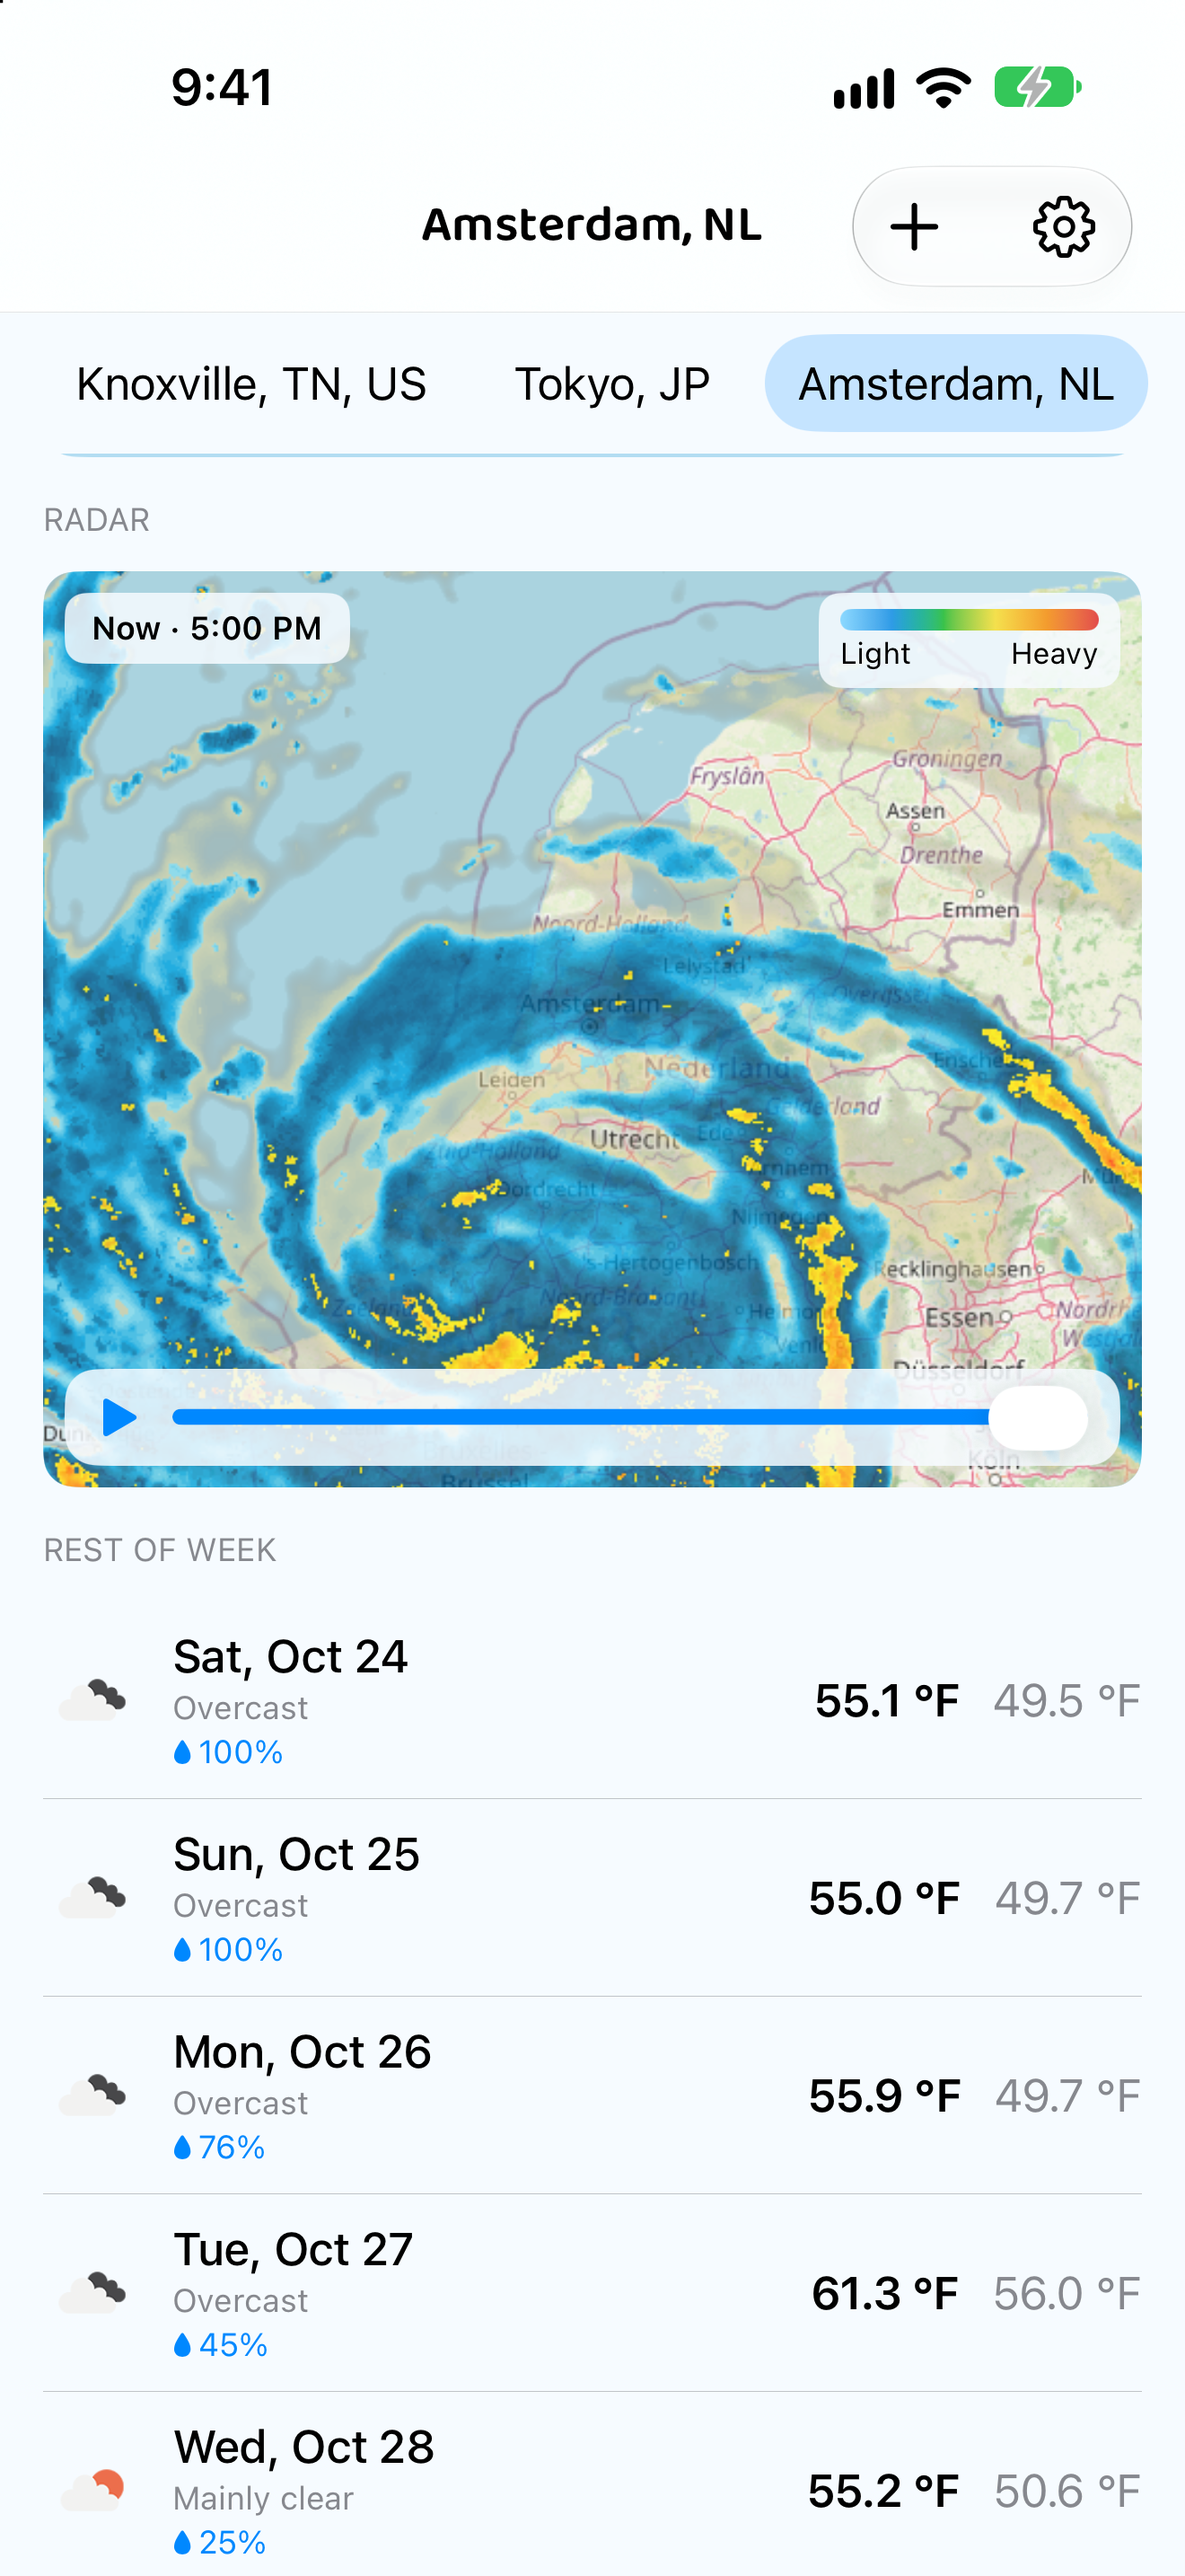
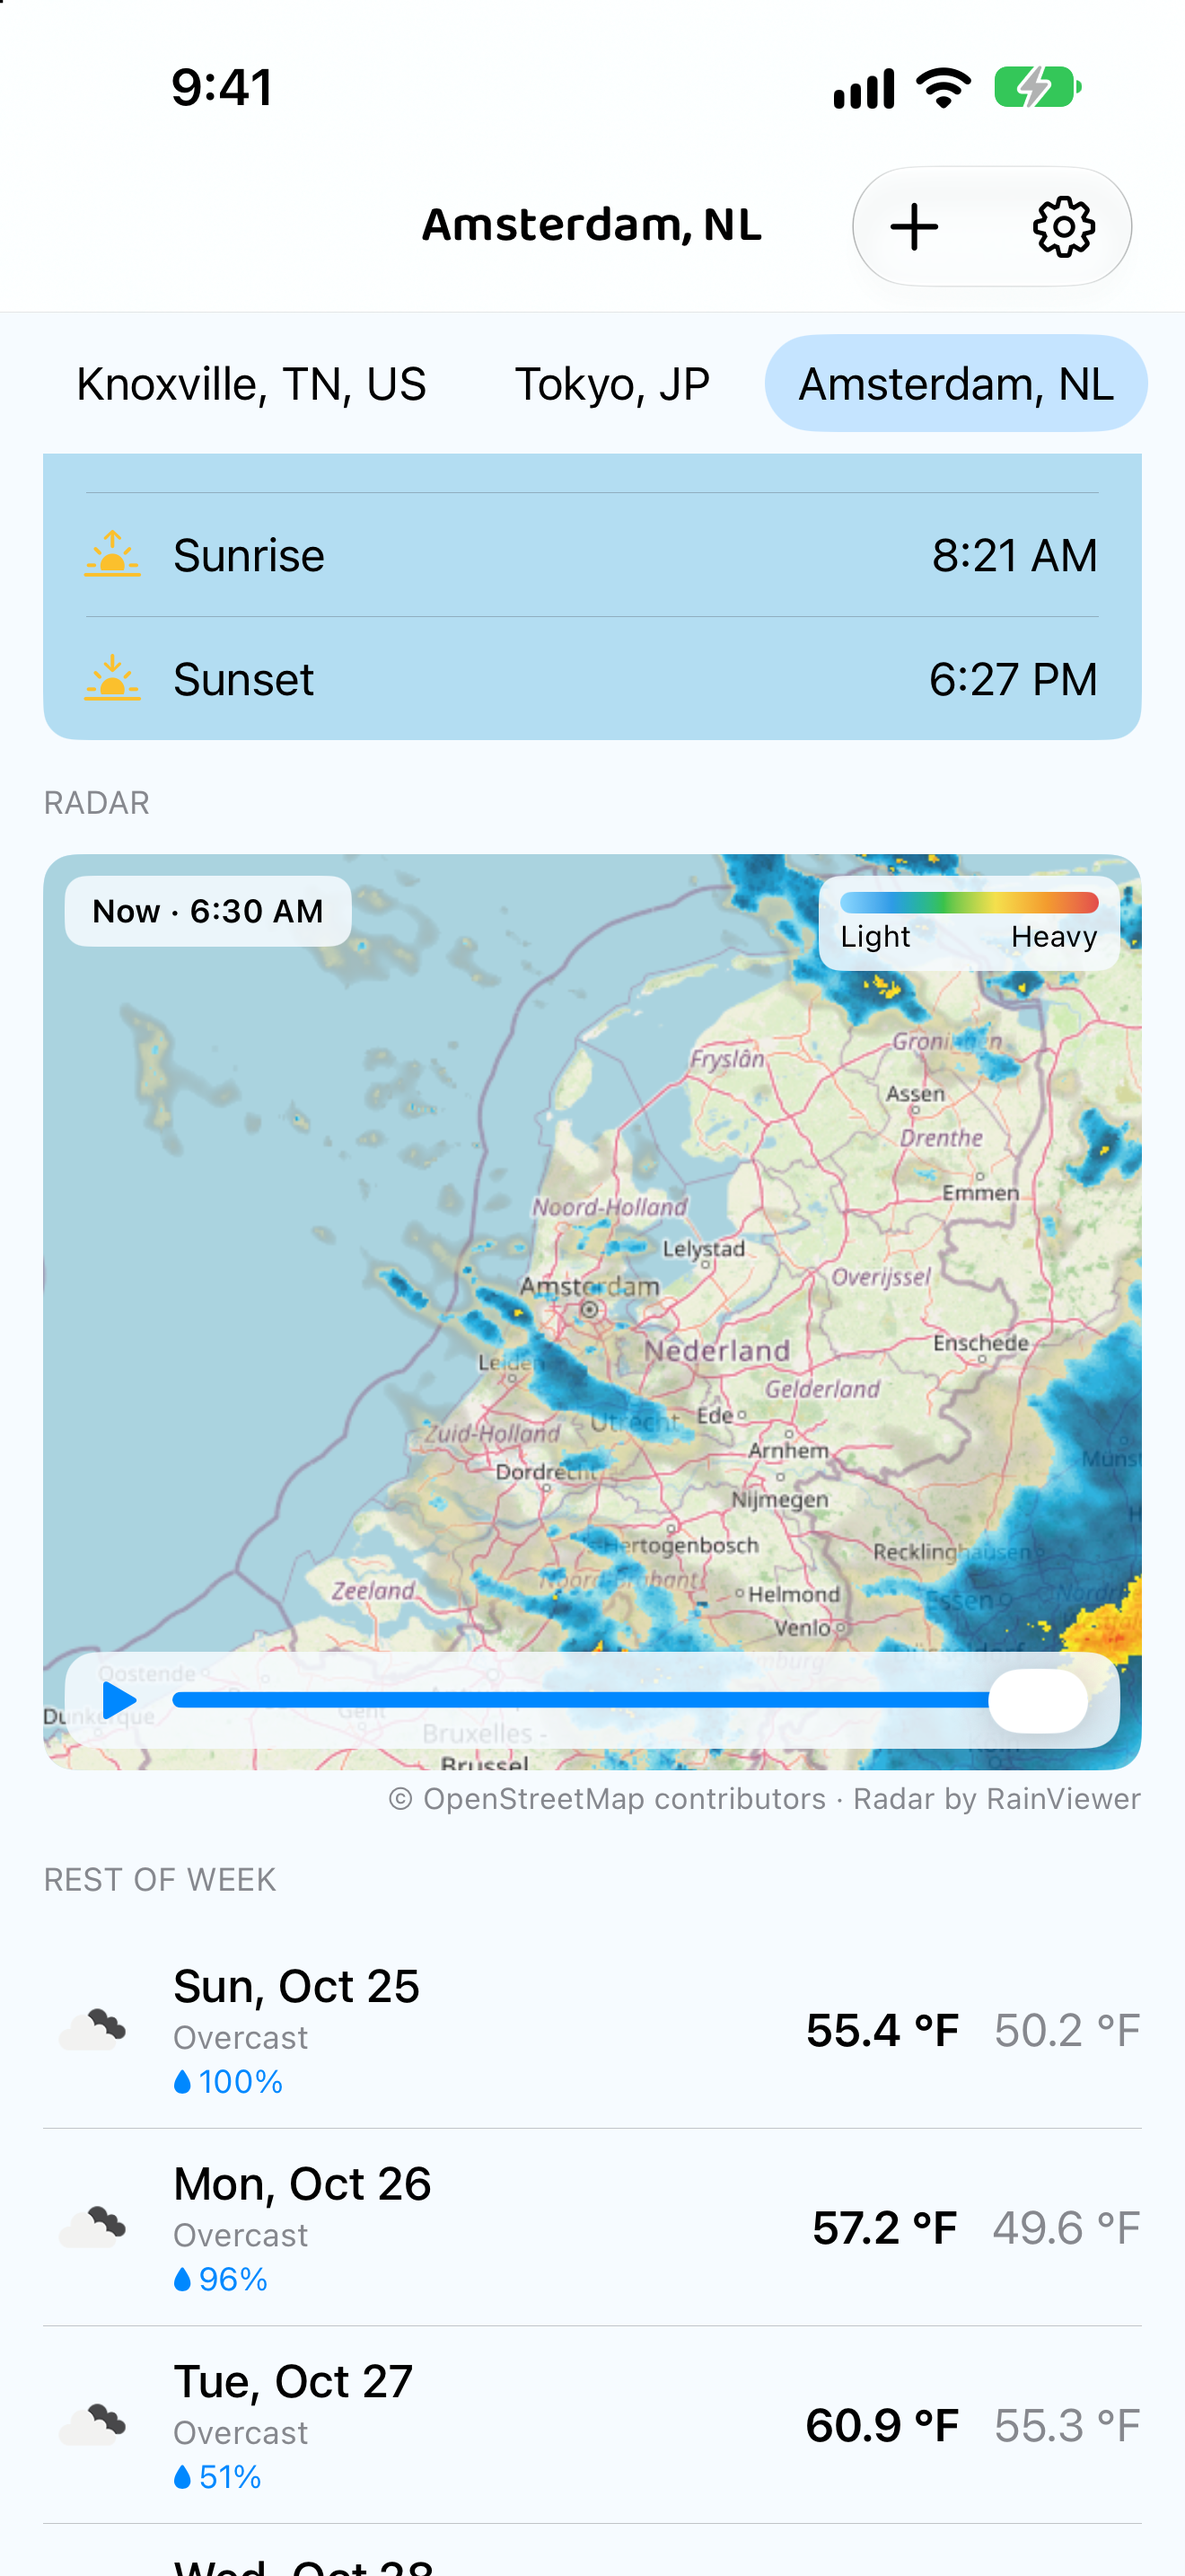
Release readiness: tile policy, consent, key check and iPad screenshots
- Radar tiles use their own session with a FurcastWeather/<version>
  User-Agent and a 100 MB disk cache, as OpenStreetMap's tile policy asks
- Tile columns wrap at the antimeridian, so cities near 180 degrees get
  real tiles on both sides instead of a blank strip
- Usage statistics start off in the EU, EEA, UK and Switzerland, where
  analytics need opt-in consent; FIREBASE_ANALYTICS_COLLECTION_ENABLED is
  false so Firebase waits for the app to apply the user's choice
- Release builds fail when Secrets.plist is missing or has no OpenWeather
  key (debug builds skip the check)
- Remove NSUserNotificationsUsageDescription, which iOS never reads
- Retake the iPhone radar screenshot with the map credit; add the two
  required 13-inch iPad screenshots
- Listing: iPad screenshots are required; list what still needs an
  outside answer before submitting (team, RainViewer, Open-Meteo, key)

diff --git a/Cats&Dogs/Views/RadarView.swift b/Cats&Dogs/Views/RadarView.swift
@@ -338,6 +338,18 @@ private struct TileInfo: Hashable {
 }
 
 private enum MapTileLoader {
+    /// OpenStreetMap's tile policy asks for a User-Agent that names the app (not the CFNetwork
+    /// default) and for tiles to be cached per their headers, so tiles get their own session with
+    /// an identifying User-Agent and a disk cache big enough to hold them.
+    private nonisolated static let session: URLSession = {
+        let version = Bundle.main.object(forInfoDictionaryKey: "CFBundleShortVersionString") as? String ?? "1.0"
+        let configuration = URLSessionConfiguration.default
+        configuration.httpAdditionalHeaders = ["User-Agent": "FurcastWeather/\(version) (+https://fangjet.com/weather)"]
+        configuration.urlCache = URLCache(memoryCapacity: 8 * 1024 * 1024, diskCapacity: 100 * 1024 * 1024)
+        configuration.requestCachePolicy = .useProtocolCachePolicy
+        return URLSession(configuration: configuration)
+    }()
+
     /// Loads the 3×3 block of tiles around (`tileX`, `tileY`) concurrently and stitches them together.
     /// Tiles that fail are retried, only those, after each of `RadarTiles.retryDelays`; after the
     /// last try a partial image is still better than none. Returns nil when nothing loaded or the
@@ -347,7 +359,10 @@ private enum MapTileLoader {
         tileY: Int,
         urlBuilder: @escaping @Sendable (Int, Int) -> String
     ) async -> CGImage? {
-        // Tiles are numbered 0...8, row by row from the north-west corner.
+        // Tiles are numbered 0...8, row by row from the north-west corner. Columns wrap around the
+        // antimeridian, so a city near 180° still gets real tiles on both sides.
+        let columns = 1 << RadarTiles.zoom
+        func column(_ slot: Int) -> Int { ((tileX + slot % 3 - 1) % columns + columns) % columns }
         var loaded: [Int: CGImage] = [:]
         let all = Array(0 ..< 9)
         for attempt in 0 ... RadarTiles.retryDelays.count {
@@ -359,7 +374,7 @@ private enum MapTileLoader {
             let fetched = await withTaskGroup(of: (Int, CGImage?).self) { group in
                 for slot in missing {
                     group.addTask {
-                        (slot, await loadTile(from: urlBuilder(tileX + slot % 3 - 1, tileY + slot / 3 - 1)))
+                        (slot, await loadTile(from: urlBuilder(column(slot), tileY + slot / 3 - 1)))
                     }
                 }
                 var results: [(Int, CGImage?)] = []
@@ -397,7 +412,7 @@ private enum MapTileLoader {
     private nonisolated static func loadTile(from urlString: String) async -> CGImage? {
         guard let url = URL(string: urlString) else { return nil }
         do {
-            let (data, response) = try await URLSession.shared.data(from: url)
+            let (data, response) = try await session.data(from: url)
             if let http = response as? HTTPURLResponse, !(200 ... 299).contains(http.statusCode) {
                 return nil
             }

diff --git a/Cats&Dogs/Data/PreferencesStore.swift b/Cats&Dogs/Data/PreferencesStore.swift
@@ -5,6 +5,7 @@ final class PreferencesStore {
     static let shared = PreferencesStore()
 
     private let defaults: UserDefaults
+    private let region: String?
     private let hasSeenWelcomeKey = "has_seen_welcome"
     private let locationOnboardingDoneKey = "location_onboarding_done"
     private let notificationOnboardingDoneKey = "notification_onboarding_done"
@@ -19,9 +20,16 @@ final class PreferencesStore {
     private let encoder = JSONEncoder()
     private let decoder = JSONDecoder()
 
-    init(defaults: UserDefaults = .standard) {
+    init(defaults: UserDefaults = .standard, region: String? = Locale.current.region?.identifier) {
         self.defaults = defaults
+        self.region = region
     }
+
+    /// The EU, the rest of the EEA, the UK and Switzerland need opt-in consent for analytics.
+    nonisolated static let optInRegions: Set<String> = [
+        "AT", "BE", "BG", "HR", "CY", "CZ", "DK", "EE", "FI", "FR", "DE", "GR", "HU", "IE", "IT", "LV",
+        "LT", "LU", "MT", "NL", "PL", "PT", "RO", "SK", "SI", "ES", "SE", "IS", "LI", "NO", "GB", "CH",
+    ]
 
     var hasSeenWelcome: Bool {
         defaults.bool(forKey: hasSeenWelcomeKey)
@@ -59,9 +67,10 @@ final class PreferencesStore {
         return UnitOverride(rawValue: raw) ?? .system
     }
 
-    /// The user's analytics opt-out. On until they turn it off.
+    /// The user's analytics choice. Until they make one it is on, except where analytics need
+    /// opt-in consent, where it stays off until they turn it on in Settings.
     var shareUsageStatistics: Bool {
-        defaults.object(forKey: shareUsageStatisticsKey) as? Bool ?? true
+        defaults.object(forKey: shareUsageStatisticsKey) as? Bool ?? !Self.optInRegions.contains(region ?? "")
     }
 
     func setHasSeenWelcome(_ value: Bool) {

diff --git a/Cats&DogsTests/SettingsViewModelTests.swift b/Cats&DogsTests/SettingsViewModelTests.swift
@@ -38,6 +38,18 @@ final class SettingsViewModelTests: XCTestCase {
         XCTAssertTrue(SettingsViewModel(preferences: preferences.store).shareUsageStatistics)
     }
 
+    func testUsageSharingDefaultsToOffWhereConsentIsNeededAndCanBeTurnedOn() {
+        let suiteName = "SettingsViewModelTests-\(UUID().uuidString)"
+        let defaults = UserDefaults(suiteName: suiteName)!
+        defer { UserDefaults.standard.removePersistentDomain(forName: suiteName) }
+        let germany = PreferencesStore(defaults: defaults, region: "DE")
+        XCTAssertFalse(germany.shareUsageStatistics)
+        XCTAssertTrue(PreferencesStore(defaults: defaults, region: "US").shareUsageStatistics)
+
+        germany.setShareUsageStatistics(true)
+        XCTAssertTrue(germany.shareUsageStatistics)
+    }
+
     func testTurningOffUsageSharingPersistsAndAppliesIt() {
         var applied = 0
         let viewModel = SettingsViewModel(preferences: preferences.store, applyUsageSharing: { applied += 1 })

diff --git a/Cats&DogsTests/ViewModelTestSupport.swift b/Cats&DogsTests/ViewModelTestSupport.swift
@@ -8,12 +8,12 @@ final class IsolatedPreferences {
     private let suiteName = "CatsDogsTests-\(UUID().uuidString)"
 
     init() {
-        store = PreferencesStore(defaults: UserDefaults(suiteName: suiteName)!)
+        store = PreferencesStore(defaults: UserDefaults(suiteName: suiteName)!, region: "US")
     }
 
     /// A second store over the same suite, to prove values were persisted rather than held in memory.
     func reopened() -> PreferencesStore {
-        PreferencesStore(defaults: UserDefaults(suiteName: suiteName)!)
+        PreferencesStore(defaults: UserDefaults(suiteName: suiteName)!, region: "US")
     }
 
     func destroy() {

diff --git a/README.md b/README.md
@@ -88,7 +88,8 @@ scheme and bundle ID (`com.tuckercr.Cats-Dogs`) keep the original Cats&Dogs name
      Granting location here adds your current location as a city.
    - Manage locations: add, set active, reorder, delete
    - Clear cached weather
-   - Privacy: **Share usage statistics** (on by default) turns analytics off
+   - Privacy: **Share usage statistics** turns analytics on or off. It starts on, except in the EU,
+     EEA, UK and Switzerland, where it starts off until the user turns it on
    - OpenWeather and Open-Meteo attribution, and [privacy policy](https://fangjet.com/weather)
 
 ### Where the data comes from
@@ -320,8 +321,12 @@ An event is sent only when all three gates are open:
 
 1. Firebase is configured.
 2. The Remote Config kill switch `analytics_enabled` is on.
-3. The user hasn't turned off **Settings → Privacy → Share usage statistics** (on by default).
-   Changing it isn't tracked, and clearing the cache keeps the choice.
+3. **Settings → Privacy → Share usage statistics** is on. It starts on, except in the EU, EEA, UK
+   and Switzerland (by the device's region), where analytics need opt-in consent, so it starts off
+   until the user turns it on. Changing it isn't tracked, and clearing the cache keeps the choice.
+
+`FIREBASE_ANALYTICS_COLLECTION_ENABLED` is false in `Info.plist`, so Firebase collects nothing until
+the app has applied that choice at launch.
 
 Gates 2 and 3 are also enforced in the SDK with `setAnalyticsCollectionEnabled`, so Firebase's
 automatic events (sessions, screen views) stop too.
@@ -337,7 +342,12 @@ Firebase 13 needs Xcode 26.1 (Swift 6.2.1). The project stays on 12.x until CI m
 - [`docs/app-store/listing.md`](docs/app-store/listing.md) is the draft App Store Connect listing:
   name, subtitle, description, keywords and the rest.
 - [`screenshots/app-store/`](screenshots/app-store/) holds the 6.9-inch iPhone screenshots
-  (1320 × 2868), numbered 01 to 06.
+  (1320 × 2868), numbered 01 to 06, and the 13-inch iPad ones (2064 × 2752), `ipad-01` and
+  `ipad-02`. App Store Connect requires iPad screenshots because the app runs on iPad.
+- Release builds fail if `Cats&Dogs/Secrets.plist` is missing or has no OpenWeather key (the "Check
+  OpenWeather API key" build phase), so an archive can't ship without one. Debug builds skip the
+  check. Radar map tiles are requested with a `FurcastWeather/<version>` User-Agent and cached on
+  disk, as OpenStreetMap's tile policy asks.
 - [`Cats&Dogs/PrivacyInfo.xcprivacy`](Cats&Dogs/PrivacyInfo.xcprivacy) is the privacy manifest: no
   tracking or tracking domains, product interaction data for analytics and precise location for
   app functionality (neither linked to the user), and `UserDefaults` as the only required-reason API.

diff --git a/docs/app-store/listing.md b/docs/app-store/listing.md
@@ -57,7 +57,9 @@ Copy each field into App Store Connect. Character counts are checked against App
 | Marketing URL (optional) | https://furcastweather.app (once registered) |
 | Privacy policy URL | https://fangjet.com/weather |
 
-**Screenshots**: 6.9-inch iPhone from `screenshots/app-store/`, suggested order 03, 04, 02, 05, 06 (01 optional). iPad 13-inch: `screenshots/tablet.png` plus new captures if wanted.
+**Screenshots** (both sets are required, because the app runs on iPhone and iPad):
+- 6.9-inch iPhone (1320 × 2868) from `screenshots/app-store/`, suggested order 03, 04, 02, 05, 06 (01 optional)
+- 13-inch iPad (2064 × 2752): `screenshots/app-store/ipad-02-tokyo.png`, then `ipad-01-amsterdam.png`
 
 ## App Review information
 
@@ -87,3 +89,13 @@ Not collected: contact info, health, financial, user content, browsing or search
 ## Export compliance
 
 Answered in the build (`ITSAppUsesNonExemptEncryption = NO`); App Store Connect won't ask.
+
+## Before you submit
+
+Not settled by code; each needs an outside answer or account:
+
+- **Signing team**: `DEVELOPMENT_TEAM` is still the personal free team (`LNG7P6G3S6`). Switch it to FangJet LLC's Team ID once Apple approves the enrolment.
+- **RainViewer**: the free radar API is offered "for personal and educational use only". Get written permission or a commercial agreement for a published app, or launch with Remote Config `radar_enabled` set to false.
+- **Open-Meteo**: the free API is for non-commercial use. Confirm with Open-Meteo that a free, ad-free app from FangJet LLC qualifies, or take a paid plan; until then `open_meteo_enabled` can fall back to OpenWeatherMap.
+- **OpenWeather key**: it ships inside the app (Secrets.plist), so anyone can extract it. Watch usage in the OpenWeather dashboard and rotate it if it's abused; a small key-proxy backend would remove it from the app entirely.
+- **OpenStreetMap tiles**: requests now identify the app and are cached, as the tile policy asks, but heavy use of tile.openstreetmap.org can still be blocked. At scale, move to a commercial tile provider.
